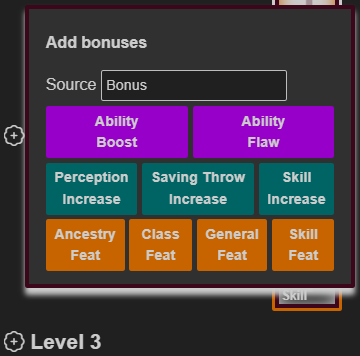
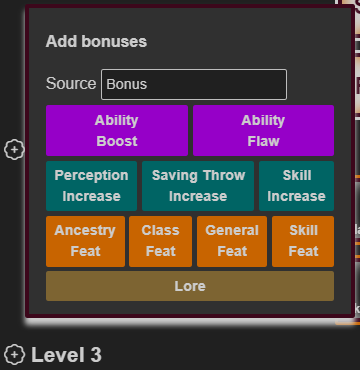
Lore Trainings can now be added in the bonus menu Containers are automatically emptied when dropped in a pack or sold

diff --git a/src/app/character.service.ts b/src/app/character.service.ts
@@ -968,7 +968,7 @@ export class CharacterService {
                 this.set_ToChange(creature.type, "activities");
             }
             if (equip && Object.keys(item).includes("equipped") && item.equippable) {
-                this.onEquip(creature, inventory, item, true, false);
+                this.on_Equip(creature, inventory, item, true, false);
             }
             if (item instanceof Weapon && item.prof == "Advanced Weapons") {
                 this.create_WeaponFeats([item]);
@@ -1048,7 +1048,7 @@ export class CharacterService {
             }
             if (item instanceof Equipment) {
                 if (item.equipped) {
-                    this.onEquip(creature, inventory, item as Equipment, false, false);
+                    this.on_Equip(creature, inventory, item as Equipment, false, false);
                 } else if (item.invested && item.can_Invest()) {
                     this.on_Invest(creature, inventory, item as Equipment, false, false);
                 }
@@ -1288,7 +1288,7 @@ export class CharacterService {
         }
     }
 
-    onEquip(creature: Character | AnimalCompanion, inventory: ItemCollection, item: Equipment, equipped: boolean = true, changeAfter: boolean = true, equipBasicItems: boolean = true) {
+    on_Equip(creature: Character | AnimalCompanion, inventory: ItemCollection, item: Equipment, equipped: boolean = true, changeAfter: boolean = true, equipBasicItems: boolean = true) {
         //Only allow equipping or unequipping for items that the creature can wear. Only allow equipping items in inventories that aren't containers.
         //Unequip any item that lands here and can't be equipped.
         let oldequipped = item.equipped;
@@ -1298,6 +1298,7 @@ export class CharacterService {
             item.equipped = false;
         }
         this.set_ToChange(creature.type, "inventory");
+        this.set_ToChange(creature.type, item.id);
         this.set_EquipmentViewChanges(creature, item);
         if (!oldequipped && item.equipped) {
             if (item instanceof Armor || item instanceof Shield) {
@@ -1308,7 +1309,7 @@ export class CharacterService {
                     raised = true;
                 }
                 allOfType.forEach(typeItem => {
-                    this.onEquip(creature, inventory, typeItem, false, false, false);
+                    this.on_Equip(creature, inventory, typeItem, false, false, false);
                 });
                 item.equipped = true;
                 if (item instanceof Shield) {
@@ -1381,6 +1382,13 @@ export class CharacterService {
                 if (toDrop) {
                     let dropped = Math.min(toDrop, invItem.amount);
                     toDrop -= dropped;
+                    //When dropping included items, empty their inventories first.
+                    if (invItem instanceof Equipment && invItem.gainInventory.length) {
+                        let found = this.preserve_InventoryContent(creature, invItem);
+                        if (found) {
+                            this.toastService.show(found + " item" + (found > 1 ? "s" : "") + " were emptied out of <strong>" + invItem.get_Name() + "</strong> before dropping the item as part of a bundle. These items can be found in your inventory, unless they were dropped in the same bundle.", [], this);
+                        }
+                    }
                     this.drop_InventoryItem(creature, inventory, invItem, false, false, true, dropped);
                 }
             })
@@ -1388,15 +1396,30 @@ export class CharacterService {
         gainedItem.id = "";
     }
 
+    preserve_InventoryContent(creature: Character | AnimalCompanion, item: Equipment) {
+        //This gets all inventories granted by an item and dumps them into the main inventory. That way, content isn't lost when you drop an inventory item.
+        let found = 0;
+        creature.inventories.filter(inv => inv.itemId == item.id).forEach(inv => {
+            inv.allItems().filter(invItem => invItem !== item).forEach(invItem => {
+                if (!invItem.markedForDeletion) {
+                    found++;
+                    this.itemsService.move_InventoryItemLocally(creature, invItem, creature.inventories[0], inv, this, invItem.amount, true);
+                }
+            })
+        })
+        return found;
+    }
+
     on_Invest(creature: Character | AnimalCompanion, inventory: ItemCollection, item: Equipment, invested: boolean = true, changeAfter: boolean = true) {
         item.invested = invested;
         this.set_ToChange(creature.type, "inventory");
+        this.set_ToChange(creature.type, item.id);
         if (item instanceof WornItem && item.gainSpells.length) {
             this.set_ToChange(creature.type, "spellbook");
         }
         if (item.invested) {
             if (!item.equipped) {
-                this.onEquip(creature, inventory, item, true, false);
+                this.on_Equip(creature, inventory, item, true, false);
             } else {
                 this.set_EquipmentViewChanges(creature, item);
             }
@@ -1454,11 +1477,11 @@ export class CharacterService {
             }
             if (!creature.inventories[0].weapons.some(weapon => weapon.equipped == true)) {
                 if (creature.inventories[0].weapons.length) {
-                    this.onEquip(creature, creature.inventories[0], creature.inventories[0].weapons[0], true, changeAfter);
+                    this.on_Equip(creature, creature.inventories[0], creature.inventories[0].weapons[0], true, changeAfter);
                 }
             }
             if (!creature.inventories[0].armors.some(armor => armor.equipped == true)) {
-                this.onEquip(creature, creature.inventories[0], creature.inventories[0].armors[0], true, changeAfter);
+                this.on_Equip(creature, creature.inventories[0], creature.inventories[0].armors[0], true, changeAfter);
             }
         }
     }

diff --git a/src/app/inventory/inventory.component.html b/src/app/inventory/inventory.component.html
@@ -501,13 +501,15 @@
                                                         <button
                                                             (click)="open_GrantingOrContainerItemDropModal(GrantingItemDropModal, item, inventory)"
                                                             [ngbTooltip]="'Choose what to do with included items'">
-                                                            Drop...
+                                                            <i class="ra ra-hive-emblem"></i> Drop...
                                                         </button>
                                                     </span>
-                                                    <span *ngIf="can_Drop(item) && containedItems">
+                                                    <span
+                                                        *ngIf="can_Drop(item) && containedItems && !can_DropAll(item)">
                                                         <button
-                                                            (click)="open_GrantingOrContainerItemDropModal(ContainerItemDropModal, item, inventory)">
-                                                            Drop...
+                                                            (click)="open_GrantingOrContainerItemDropModal(ContainerItemDropModal, item, inventory)"
+                                                            [ngbTooltip]="'Choose what to do with contained items'">
+                                                            <i class="ra ra-hive-emblem"></i> Drop...
                                                         </button>
                                                     </span>
                                                     <span
@@ -519,7 +521,8 @@
                                                 </div>
                                                 <div class="newrow" *ngIf="get_Price(item) && item.tradeable">
                                                     <span *ngIf="item.can_Stack()">
-                                                        <span [ngbTooltip]="'Sell at half price'">
+                                                        <span
+                                                            [ngbTooltip]="(item.broken || item.shoddy) ? 'The item is worthless in this state' : 'Sell at half price'">
                                                             <button (click)="onAmountChange(item, -1, true)"
                                                                 [disabled]="item.amount <= 0 || item.broken || item.shoddy">Sell
                                                                 1</button>
@@ -532,10 +535,12 @@
                                                         <!-- This span is a placeholder that appears if no other button is valid on the left side of the Sell button -->
                                                     </span>
                                                     <span>
-                                                        <span [ngbTooltip]="'Sell at half price'">
+                                                        <span
+                                                            [ngbTooltip]="(item.broken || item.shoddy) ? 'The item is worthless in this state' : 'Sell at half price'">
                                                             <button (click)="drop_InventoryItem(item, inventory, true)"
                                                                 [disabled]="item.amount <= 0 || item.broken || item.shoddy">
-                                                                Sell {{can_DropAll(item) ? " with all parts" : ""}}
+                                                                Sell{{can_DropAll(item) ? " with all parts" :
+                                                                ""}}{{containedItems ? " without contained items" : ""}}
                                                             </button>
                                                         </span>
                                                     </span>

diff --git a/src/app/character/character.component.html b/src/app/character/character.component.html
@@ -508,6 +508,11 @@
                                         Skill<br>Feat
                                     </button>
                                 </div>
+                                <div class="newrow center-aligned">
+                                    <button class="specialchoice center-aligned" (click)="add_BonusLoreChoice(level)">
+                                        Lore Training
+                                    </button>
+                                </div>
                             </ng-template>
                             <header class="sectionHeader levelHeader" *ngIf="level.number > 0">
                                 <span class="fullsize-only" [ngbPopover]="AddBonusesTemplate"
@@ -2283,6 +2288,14 @@
                         Lore Training ({{loreContent.choice.source}}){{(loreContent.choice.increases.length) ? ": "+
                         loreContent.choice.loreName : ""}}
                     </header>
+                    <div class="newrow center-aligned">
+                        <span>
+                            <button class="center-aligned" *ngIf="loreContent.choice.bonus"
+                                (click)="remove_BonusLoreChoice(loreContent.choice, loreContent.levelNumber)">
+                                Remove bonus lore training
+                            </button>
+                        </span>
+                    </div>
                 </div>
                 <div id="choiceArea" class="list-item">
                     <ng-container
@@ -2291,7 +2304,7 @@
                             *ngFor="let illegal of [get_Skills('Lore: '+loreContent.choice.loreName).length && !checked]; trackBy:trackByIndex">
                             <ng-container
                                 *ngFor="let disabled of [!loreContent.choice.loreName || illegal]; trackBy:trackByIndex">
-                                <div class="newrow left-aligned list-item">
+                                <div class="newrow left-aligned list-item" *ngIf="loreContent.choice.loreDesc">
                                     <strong>Lore Type</strong>
                                     {{loreContent.choice.loreDesc}}
                                 </div>
@@ -2306,11 +2319,11 @@
                                         </label>
                                     </div>
                                     <header class="sectionHeader">
-                                        <input id="LoreName" type="text" [(ngModel)]="loreContent.choice.loreName"
-                                            [disabled]="checked" (blur)="on_LoreNameChange" maxLength="20">
                                         <cite class="problem" *ngIf="illegal">
                                             Lore already trained
                                         </cite>
+                                        <input id="LoreName" type="text" [(ngModel)]="loreContent.choice.loreName"
+                                            [disabled]="checked" (blur)="on_LoreNameChange" maxLength="20">
                                     </header>
                                 </div>
                             </ng-container>

diff --git a/src/app/inventory/inventory.component.ts b/src/app/inventory/inventory.component.ts
@@ -250,6 +250,13 @@ export class InventoryComponent implements OnInit {
                 }
             }
         }
+        if (pay && item instanceof Equipment && item.gainInventory.length) {
+            //If you are selling a container item, you don't sell its content. If you are dropping it, the content decision gets handled earlier.
+            let found = this.characterService.preserve_InventoryContent(this.get_Creature(), item);
+            if (found) {
+                this.toastService.show(found + " item" + (found > 1 ? "s" : "") + " were emptied out of <strong>" + item.get_Name() + "</strong> before selling the item. These items can be found in your main inventory unless they were sold as well.", [], this.characterService);
+            }
+        }
         this.characterService.drop_InventoryItem(this.get_Creature(), inventory, item, false, true, true, item.amount);
         this.characterService.set_ToChange(this.creature, "inventory");
         this.characterService.set_ToChange(this.creature, "close-popovers");
@@ -357,11 +364,7 @@ export class InventoryComponent implements OnInit {
     drop_ContainerOnly(item: Item, inventory: ItemCollection) {
         this.toggle_Item();
         if (item instanceof Equipment && item.gainInventory?.length) {
-            this.get_Inventories().filter(inv => inv.itemId == item.id).forEach(inv => {
-                inv.allItems().filter(invItem => invItem !== item).forEach(invItem => {
-                    this.move_InventoryItem(invItem, inv, this.get_Inventories()[0], invItem.amount, true, false);
-                })
-            })
+            this.characterService.preserve_InventoryContent(this.get_Creature(), item);
         }
         this.characterService.drop_InventoryItem(this.get_Creature(), inventory, item, false, true, false, item.amount);
         this.characterService.set_ToChange(this.creature, "close-popovers");
@@ -455,7 +458,7 @@ export class InventoryComponent implements OnInit {
     }
 
     on_Equip(item: Equipment, inventory: ItemCollection, equipped: boolean) {
-        this.characterService.onEquip(this.get_Creature(), inventory, item, equipped);
+        this.characterService.on_Equip(this.get_Creature(), inventory, item, equipped);
     }
 
     on_Invest(item: Equipment, inventory: ItemCollection, invested: boolean) {
@@ -465,7 +468,7 @@ export class InventoryComponent implements OnInit {
     onItemBroken(item: Equipment) {
         if (item.broken) {
             if (!this.can_Equip(item, 0) && item.equipped) {
-                this.characterService.onEquip(this.get_Creature() as Character | AnimalCompanion, this.get_Creature().inventories[0], item, false, false, true)
+                this.characterService.on_Equip(this.get_Creature() as Character | AnimalCompanion, this.get_Creature().inventories[0], item, false, false, true)
                 this.toastService.show("Your <strong>" + item.get_Name() + "</strong> was unequipped because it is broken.", [], this.characterService);
             }
         }

diff --git a/src/app/character/character.component.ts b/src/app/character/character.component.ts
@@ -1513,6 +1513,27 @@ export class CharacterComponent implements OnInit {
         this.get_Character().add_FeatChoice(level, newChoice);
     }
 
+    add_BonusLoreChoice(level: Level) {
+        let newChoice = new LoreChoice();
+        newChoice.available = 1;
+        newChoice.source = this.bonusSource || "Bonus";
+        newChoice.bonus = true;
+        this.get_Character().add_LoreChoice(level, newChoice);
+    }
+
+    remove_BonusLoreChoice(choice: LoreChoice, levelNumber: number) {
+        let character = this.get_Character();
+        let a = character.class.levels[levelNumber].loreChoices;
+        if (choice.loreName) {
+            character.remove_Lore(this.characterService, choice);
+        }
+        if (a.indexOf(choice) != -1) {
+            a.splice(a.indexOf(choice), 1);
+        }
+        this.toggle_List("");
+        this.characterService.process_ToChange();
+    }
+
     still_loading() {
         return this.characterService.still_loading();
     }

diff --git a/src/app/defense/defense.component.ts b/src/app/defense/defense.component.ts
@@ -193,7 +193,7 @@ export class DefenseComponent implements OnInit {
         shield.damage += amount;
         if (shield.get_HitPoints() < shield.get_BrokenThreshold()) {
             shield.broken = true;
-            this.characterService.onEquip(this.get_Creature() as Character | AnimalCompanion, this.get_Creature().inventories[0], shield, false, false, true)
+            this.characterService.on_Equip(this.get_Creature() as Character | AnimalCompanion, this.get_Creature().inventories[0], shield, false, false, true)
             this.toastService.show("Your shield broke and was unequipped.", [], this.characterService)
         } else {
             shield.broken = false;

diff --git a/src/app/character/feat/feat.component.html b/src/app/character/feat/feat.component.html
@@ -26,10 +26,13 @@
         <ng-container *ngFor="let desc of feat.desc.split('\n\n'); trackBy:trackByIndex;">
             <app-description class="newrow" [text]="desc"></app-description>
         </ng-container>
-        <p *ngIf="feat.specialdesc.length">
+        <p *ngIf="feat.specialdesc">
             <strong>Special</strong> {{feat.specialdesc}}
         </p>
-        <p *ngIf="feat.usageNote.length">
+        <p *ngIf="feat.PFSnote">
+            <strong>PFS note</strong> {{feat.PFSnote}}
+        </p>
+        <p *ngIf="feat.usageNote">
             <strong>Usage note&nbsp;</strong>
             <span class="problem">{{feat.usageNote}}</span>
         </p>

diff --git a/src/app/items.service.ts b/src/app/items.service.ts
@@ -571,7 +571,7 @@ export class ItemsService {
                     item.amount -= amount;
                 }
                 if (movedItem instanceof Equipment && movedItem.equipped) {
-                    characterService.onEquip(creature, inventory, movedItem as Equipment, false)
+                    characterService.on_Equip(creature, inventory, movedItem as Equipment, false)
                 }
                 if (movedItem instanceof Equipment && movedItem.invested) {
                     characterService.on_Invest(creature, inventory, movedItem as Equipment, false)
